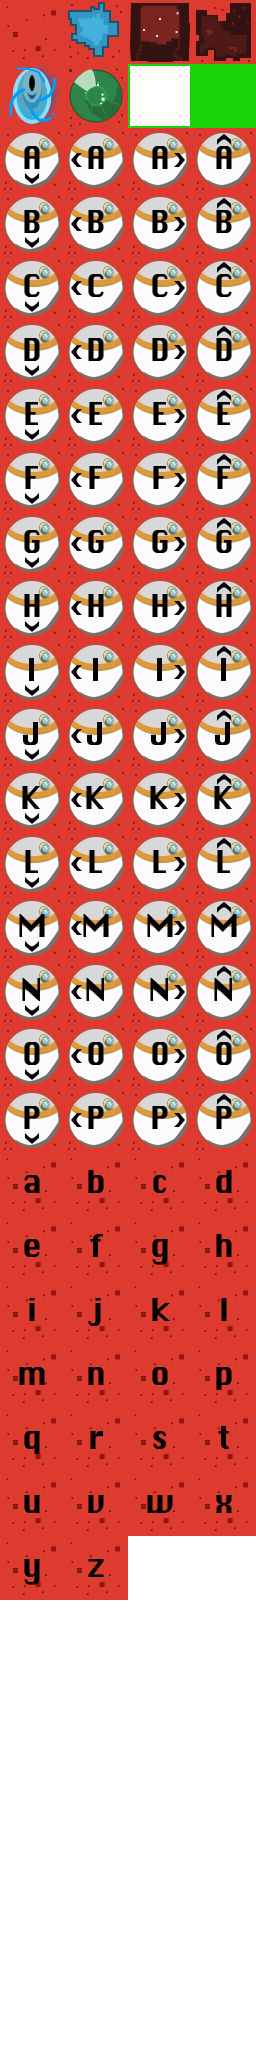
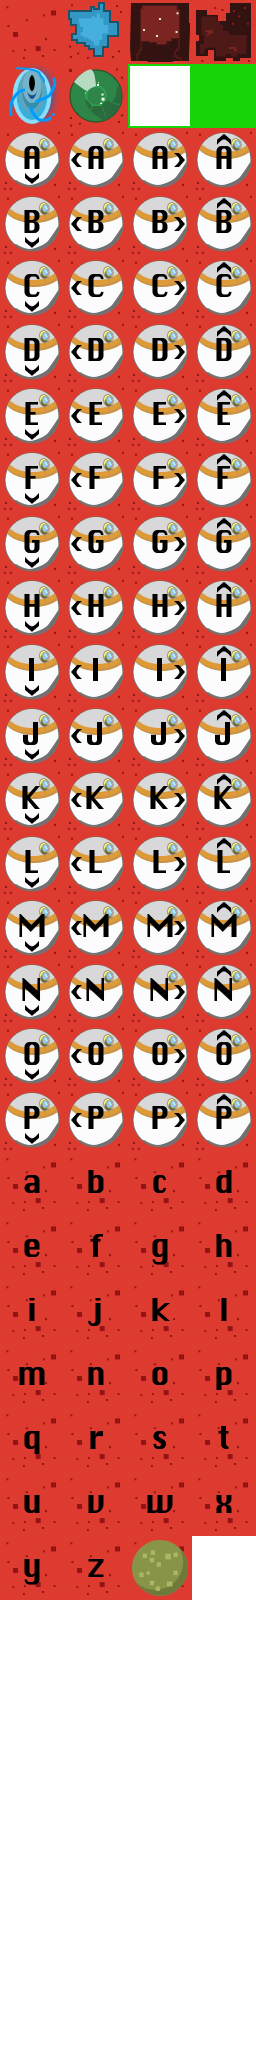
Add snake tail

Changed region(s): [[0.5, 0.75, 0.75, 0.7812]]

diff --git a/main.js b/main.js
@@ -66,7 +66,8 @@ var spriteIndices = {
     'w': 94,
     'x': 95,
     'y': 96,
-    'z': 97
+    'z': 97,
+    '*': 98
 }
 
 var playerDirectionIndices = {
@@ -244,8 +245,6 @@ function drawPlayerMoves() {
         gl.bufferData(gl.ARRAY_BUFFER, vertices, gl.STATIC_DRAW);
         gl.vertexAttribPointer(vertexPositionAttribute, 2, gl.FLOAT, false, 0, 0);
 
-        var perspectiveMatrix = createPerspectiveMatrix(width, height);
-
         var offset = mapDimension;
         var x = (player.x - offset) * 2;
         var y = (offset - player.y) * 2;
@@ -277,8 +276,6 @@ function createPlayerView() {
         gl.bindBuffer(gl.ARRAY_BUFFER, glBuffer);
         gl.bufferData(gl.ARRAY_BUFFER, vertices, gl.STATIC_DRAW);
         gl.vertexAttribPointer(vertexPositionAttribute, 2, gl.FLOAT, false, 0, 0);
-
-        var perspectiveMatrix = createPerspectiveMatrix(width, height);
 
         var offset = mapDimension;
         var x = (player.x - offset) * 2;
